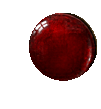
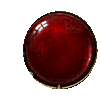
The liquid fills the whole sphere (v1.9.215)
The cutter finds each sphere from the saturated pixels under alpha 0 and lifts every alpha-0 pixel inside that circle, so the disc is complete to its rim; centre and radius are generated from the same measurement.

diff --git a/Source/oracool/hud_plate_skin.h b/Source/oracool/hud_plate_skin.h
@@ -30,8 +30,8 @@ constexpr Size BeltCellSize { 25, 27 };
 
 constexpr Size HealthOrbSize { 101, 109 };
 constexpr Size ManaOrbSize { 102, 109 };
-constexpr Point HealthSphereCenter { 63, 47 };
-constexpr Point ManaSphereCenter { 42, 47 };
-constexpr int SphereRadius = 33;
+constexpr Point HealthSphereCenter { 60, 50 };
+constexpr Point ManaSphereCenter { 42, 50 };
+constexpr int SphereRadius = 39;
 
 } // namespace devilution::oracool::hud_skin

diff --git a/.ProjectDocumentation/02-Development-Reports/2026-09-05 - The Fifth HUD, Orbs and All.md b/.ProjectDocumentation/02-Development-Reports/2026-09-05 - The Fifth HUD, Orbs and All.md
@@ -37,3 +37,11 @@ The cutter now reads `transparent-orbs/03-transparent-belt-and-orbs.png`: the sa
 `DrawOrb` takes the liquid asset: if present and the same size as the cradle, it blits the liquid from the fill line down and the cradle over it; the world shows through the empty glass above the line. Without a liquid file the painted-sphere path (frame / dimmed sphere / bright) still runs. Two new assets in `hud_art.cpp`'s load, requantise, quantize and reset lists.
 
 A mock at 100/55/15% is in the session's scratchpad (`orb_liquid_mock.png`); the in-game look is the user's screenshot.
+
+## Addendum, v1.9.215 - the whole sphere
+
+"you are not filing the entire orbs. cant you see? there are unfilled areas in the bottom half."
+
+The first lift used a hand-measured circle (r 116 in the master) and the sphere is r 137, so its edge was never lifted. The cutter now finds the sphere itself, in two passes over the master: first the bounding box of the SATURATED pixels under alpha 0 (the master keeps a grey ghost of the cradle under its alpha too, and the anti-aliased fringe is partial alpha with colour - the liquid is the only hued thing at alpha exactly 0), which gives centre and radius; then every alpha-0 pixel inside that circle plus two, whatever its colour, since the rim's darkest red fails any saturation test and lifting by hue alone left a ragged edge. Centre and radius go into the header from the same measurement (60,50 / 42,50, r 39 on screen), so the game's fill line covers exactly what was lifted.
+
+The sphere's crown now sits 2px above `SidePanelContentBottom`; while a side panel is open those two rows are clipped with the arch tips.
